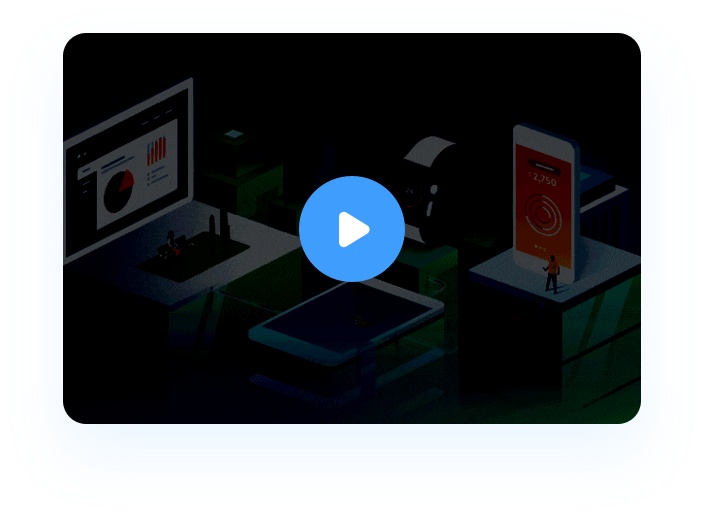
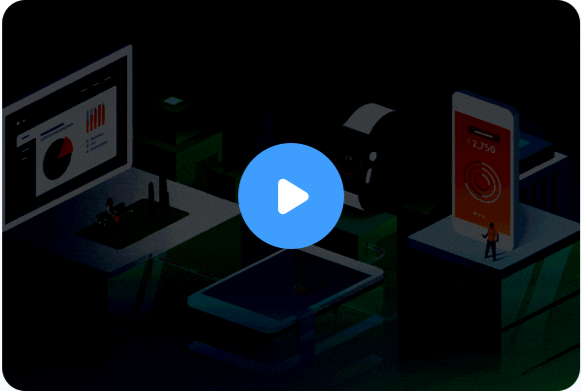
Updated the bug fixes

diff --git a/home_component/home.css b/home_component/home.css
@@ -80,7 +80,7 @@
     position: absolute;
 }
 .digital-reserve-wrapper{
-    padding: 132px 77px;
+    padding: 132px 77px 190px;
     position: relative;
 }
 .digital-reserve-wrapper::before {
@@ -103,6 +103,7 @@
     display: block;
 	position:  absolute;
     background: url('../assets/images/digital-reserve-bg.png') no-repeat;
+    background-position: bottom right;
 }
 .more-digitalr-wrapper{
     width: 50%;
@@ -111,6 +112,9 @@
 }
 .more-digitalr-wrapper .more-digitalr-heading{
     
+}
+#faq-container + .main-footer-container {
+    padding-bottom: 36px;
 }
 .more-digitalr-heading .more-digitalr-subheader,
 .whats-tdr-heading{
@@ -168,14 +172,14 @@
 .whats-digitalr-wrapper{
     margin-top: 225px;
     position: relative;
-    padding-left: 50%; 
+    padding-left: 46%; 
     z-index: 2;
 }
 .whats-digitalr-wrapper .whats-tdr-video-wrapper{
     top: 50%;
     left: -48px;
     width: 50%;
-    height: 391px;
+    height: 400px;
     position: absolute;
     transform: translateY(-50%);
     -o-transform: translateY(-50%);
@@ -196,7 +200,7 @@
     font-family: AvertaRegular;
 }
 .whats-digitalr-wrapper .whats-tdr-content-wrapper a{
-    margin-top: 20px;
+    margin-top: 45px;
 }
 .tdr-working-wrapper{
     padding: 130px 77px;
@@ -339,6 +343,9 @@
         width: 100%;
         margin-top: 60px;
     }
+    .more-digitalr-knowmore {
+        padding: 18px 26px;
+    }
     .digital-reserve-wrapper:after {
         background-position: right;
     }    
@@ -360,15 +367,22 @@
     }
     .whats-digitalr-wrapper .whats-tdr-video-wrapper img{
         height: auto;
+        margin-bottom: 60px;
+    }
+    .whats-digitalr-wrapper .whats-tdr-content-wrapper a {
+        margin-top: 33px;
     }
     .tdr-working-wrapper{
-        padding: 65px 30px;
+        padding: 65px 30px 50px;
     }
     .tdr-working-list .tdr-working-join{
         margin-top: 95px;
     }
     .tdr-working-join > p{
         font-size: 12px;
+    }
+    .tdr-working-list-contents{
+        padding-left: 25px;
     }
     .tdr-working-list-contents .reputation-wrap > span{
         margin-bottom: 35px;
@@ -396,7 +410,7 @@
 }
 @media (min-width: 320px) and (max-width: 991px){
     .home-sub-header-wrap.nodes-image-wrapper{
-        padding: 130px 30px 0;
+        padding: 100px 30px 0;
         max-height: none;
     }
 }

diff --git a/home_component/home.html b/home_component/home.html
@@ -51,7 +51,8 @@
         </div>
         <div class="whats-digitalr-wrapper">
             <div class="whats-tdr-video-wrapper">
-                <img src="assets/images/whats-tdr-video.png" alt="tdr-video" class="whats-tdr-img">
+                <img src="assets/images/whats-tdr-video1.png" alt="tdr-video" class="whats-tdr-img d-none d-sm-none d-md-none d-lg-block">
+                <img src="assets/images/whats-tdr-video.png" alt="tdr-video" class="whats-tdr-img d-block d-sm-block d-md-block d-lg-none">
             </div>
             <div class="whats-tdr-content-wrapper">
                 <h1 class="whats-tdr-heading">What is The Digital Reserve?</h1>
